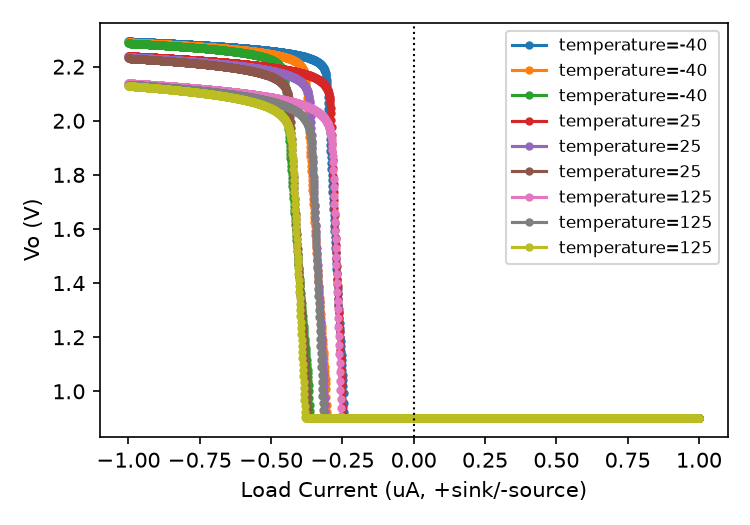
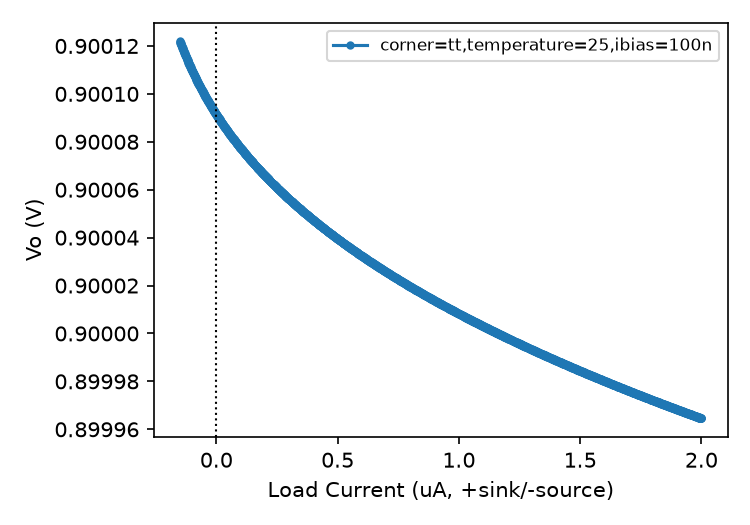
Update release docs/plots, cmos_vref params, and output_amp load_reg/openloop_ac parsers
Bundled miscellaneous updates from parallel exploration this session:
release/README.md and output_amp's own release doc/plots refreshed,
params/cmos_vref/default.json parameter adjustments, and parser tweaks to
tb_amp_load_reg.py/tb_amp_openloop_ac.py.

diff --git a/tb/output_amp/tb_amp_load_reg.py b/tb/output_amp/tb_amp_load_reg.py
@@ -7,16 +7,26 @@ class-A PMOS pull-up, M10, vs. a fixed-current NMOS pull-down, M3), so
 regulation is expected to differ between the two directions and both need
 covering, not just one.
 
-Sweep amplitude (config.json's "iload": +-1.5e-7) is capped well below M3's
+Sweep amplitude (config.json's "iload": -1.5e-7..2e-6) is deliberately
+asymmetric, matching the output stage's own asymmetry (see above): the
+source direction (negative iload, current flowing INTO vo from the load)
+is absorbed by M3's fixed pull-down mirror, so it's capped well below M3's
 mirrored sink current (ibias * m3_width/m1_width, ~250-380nA at nominal
-sizing) on purpose: push past that ceiling (as an earlier +-1e-6 sweep did)
-and M10 cuts off with nowhere left for the excess current to go except
-M10's own drain-bulk parasitic diode (drain=vo, bulk=vdd), which forward-
-biases once vo exceeds vdd+~0.5V -- vo then rails there instead of the loop
-regulating, swamping the box-method regulation_pct() with a diode-clamp
-artifact instead of a real small-signal number. Confirmed in
+sizing) -- push past that ceiling (as an earlier +-1e-6 symmetric sweep
+did) and M3 can't sink the extra current, vo rises, M10 cuts off with
+nowhere left for the excess current to go except M10's own drain-bulk
+parasitic diode (drain=vo, bulk=vdd), which forward-biases once vo exceeds
+vdd+~0.5V -- vo then rails there instead of the loop regulating, swamping
+the box-method regulation_pct() with a diode-clamp artifact instead of a
+real small-signal number. Confirmed in an earlier
 release/doc/output_amp/plots/load_reg__worst.png (ss/-40C/ibias=80n, the
-smallest mirrored sink current) before this was capped.
+smallest mirrored sink current) before this direction was capped.
+
+The sink direction (positive iload, current flowing OUT of vo to the load)
+is answered by M10 sourcing more current as a common-source class-A driver
+-- it isn't tied to a fixed mirror ceiling the way M3 is, only to M10's own
+sizing/gate drive, so it regulates over a much wider range (out to 2uA
+here) before anything similar happens on that side.
 
 Load regulation = (vo_max - vo_min) / |vo_nom|, vo_nom = midpoint of the
 values seen across the sweep -- same box-method convention as
@@ -42,14 +52,17 @@ def evaluate(runs, outputs, typical, plot_base=None):
     result = typical_min_max(runs, typical, lambda r: regulation_pct(r["values"]), match_keys=("corner", "temperature", "ibias"))
 
     if plot_base:
-        typical_runs = [r for r in runs if r["conditions"].get("corner") == typical["corner"]]
-        if typical_runs:
-            _save_plot(typical_runs, f"{plot_base}__typical.png", label_key="temperature")
+        typical_run = next(
+            (r for r in runs if all(r["conditions"].get(k) == typical.get(k) for k in ("corner", "temperature", "ibias"))),
+            None,
+        )
+        if typical_run:
+            _save_plot([typical_run], f"{plot_base}__typical.png")
 
         worst_run = max(runs, key=lambda r: max(r["values"]) - min(r["values"]))
         _save_plot([worst_run], f"{plot_base}__worst.png")
 
-        _save_plot(runs, f"{plot_base}__all.png")
+        _save_plot(runs, f"{plot_base}__all.png", label_key="corner")
 
     return [{
         "name": spec["description"],
@@ -61,13 +74,27 @@ def evaluate(runs, outputs, typical, plot_base=None):
 
 
 def _save_plot(runs, path, label_key=None):
+    """label_key: group lines by this condition, giving each distinct value
+    its own color and exactly one legend entry -- used for __all (label_key
+    ="corner") so the legend stays at 3 entries instead of one per
+    corner x temperature x ibias combination (up to 27, unreadable). Without
+    label_key (__worst, single run) every line gets its own full-condition
+    label as before."""
     fig, ax = plt.subplots(figsize=(5, 3.5))
-    for run in runs:
-        if label_key:
-            label = f"{label_key}={run['conditions'].get(label_key)}"
-        else:
+    if label_key:
+        keys = sorted({run["conditions"].get(label_key) for run in runs}, key=str)
+        colors = {k: c for k, c in zip(keys, plt.cm.tab10.colors)}
+        labeled = set()
+        for run in runs:
+            key = run["conditions"].get(label_key)
+            label = f"{label_key}={key}" if key not in labeled else None
+            labeled.add(key)
+            ax.plot([i * 1e6 for i in run["iloads"]], run["values"], marker="o", markersize=3,
+                    label=label, color=colors[key])
+    else:
+        for run in runs:
             label = _condition_label(run["conditions"])
-        ax.plot([i * 1e6 for i in run["iloads"]], run["values"], marker="o", markersize=3, label=label)
+            ax.plot([i * 1e6 for i in run["iloads"]], run["values"], marker="o", markersize=3, label=label)
     ax.axvline(0, color="black", linestyle=":", linewidth=1)
     ax.set_xlabel("Load Current (uA, +sink/-source)")
     ax.set_ylabel("Vo (V)")

diff --git a/tb/output_amp/tb_amp_openloop_ac.py b/tb/output_amp/tb_amp_openloop_ac.py
@@ -44,20 +44,30 @@ def evaluate(runs, outputs, typical, plot_base=None):
     one per corner/temperature. Reports {typical, min, max} DC gain, GBW
     and phase margin across all conditions -- GBW has no pass/fail spec (a
     low bandwidth is expected and acceptable for a DC buffer), it's
-    reported for visibility only."""
+    reported for visibility only. GBW is reported in kHz, not MHz -- this
+    buffer's bandwidth is deliberately unambitious (tens of kHz), so an MHz
+    figure was reading as an awkward 0.0X."""
     gain_spec, gbw_spec, pm_spec = outputs[0], outputs[1], outputs[2]
     for r in runs:
         c = _characterize(r["freqs"], r["vdb"], r["phase_deg"])
         r["_dc_gain_db"] = c["dc_gain_db"]
-        r["_gbw_mhz"] = c["gbw_hz"] / 1e6
+        r["_gbw_hz"] = c["gbw_hz"]
+        r["_gbw_khz"] = c["gbw_hz"] / 1e3
         r["_phase_margin_deg"] = c["phase_margin_deg"]
 
     match_keys = ("corner", "temperature", "ibias")
     gain = typical_min_max(runs, typical, lambda r: r["_dc_gain_db"], match_keys=match_keys)
-    gbw = typical_min_max(runs, typical, lambda r: r["_gbw_mhz"], match_keys=match_keys)
+    gbw = typical_min_max(runs, typical, lambda r: r["_gbw_khz"], match_keys=match_keys)
     pm = typical_min_max(runs, typical, lambda r: r["_phase_margin_deg"], match_keys=match_keys)
 
     if plot_base:
+        typical_run = next(
+            (r for r in runs if all(r["conditions"].get(k) == typical.get(k) for k in match_keys)),
+            None,
+        )
+        if typical_run:
+            _save_bode(typical_run, f"{plot_base}__typical.png")
+
         worst = min(runs, key=lambda r: r["_phase_margin_deg"])
         _save_bode(worst, f"{plot_base}__worst_case.png")
 
@@ -116,7 +126,18 @@ def _log10(x):
     return math.log10(x)
 
 
+_DEFAULT_VIEW_CAP_HZ = 10e6
+
+
 def _save_bode(run, path):
+    """View defaults to a 10MHz-wide window -- plenty past this DC buffer's
+    expected tens-of-kHz GBW, and far more readable than the full 10Hz-100MHz
+    sweep .control asks for (see the .sch's `ac dec 20 10 100Meg` -- that
+    full range is still simulated every time, only the plotted VIEW shrinks
+    here). If a particular run's own GBW lands close to or past that cap
+    (an unexpectedly fast sample), the view widens to 10x that run's GBW
+    instead of silently cropping its 0dB crossing and phase-margin region
+    off screen -- capped at the actual simulated top frequency either way."""
     fig, (ax_mag, ax_phase) = plt.subplots(2, 1, figsize=(5, 5), sharex=True)
     ax_mag.semilogx(run["freqs"], run["vdb"])
     ax_mag.axhline(0, color="black", linestyle=":", linewidth=1)
@@ -124,6 +145,10 @@ def _save_bode(run, path):
     ax_phase.semilogx(run["freqs"], run["phase_deg"])
     ax_phase.set_ylabel("Phase (deg)")
     ax_phase.set_xlabel("Frequency (Hz)")
+
+    view_max = min(run["freqs"][-1], max(_DEFAULT_VIEW_CAP_HZ, run["_gbw_hz"] * 10))
+    ax_phase.set_xlim(run["freqs"][0], view_max)
+
     fig.suptitle(_condition_label(run["conditions"]), fontsize=8)
     fig.tight_layout()
     fig.savefig(path, dpi=150)

diff --git a/README.md b/README.md
@@ -1,0 +1,56 @@
+# sg13g2_mh_ip__cmos_vref
+
+Analog IP for the IHP **SG13G2** (130nm SiGe BiCMOS) open PDK, designed and
+simulated through the [mh-analog-designer](https://gitlab.kvitschal.dev/adankvitschal/mh-analog-designer)
+tool: schematic capture in xschem, simulation via ngspice or Xyce, and a
+`config.json`-driven pipeline for generating/exploring parameter variations,
+scoring them against named design profiles, and training surrogate models.
+
+## Blocks
+
+| Block | Topologies | Profiles | What it is |
+| --- | --- | --- | --- |
+| `cmos_vref` | `default`, `lvfet` | `low_power`, `high_performance` | Self-biased CMOS voltage reference: PTAT current mirror compensating the FET V_TH's CTAT behavior. `lvfet` swaps the vptat cascode (M1/M2) for low-voltage NMOS. |
+| `output_amp` | `default` | `low_power` | Two-stage Miller-compensated op-amp (NMOS diff pair + cascode, active PMOS mirror load, CS PMOS output driver) — unity-feedback DC buffer for `cmos_vref`. |
+| `top` | `default` | `bias_matched`, `low_power` | `cmos_vref` + `output_amp` + digital trim/enable, integrated as one hierarchical block. |
+
+Each topology's tests, metrics and pass/fail-relevant design profiles are
+declared in [`config.json`](config.json). There is no absolute per-test
+spec anymore — a profile's own `constraints` (and its figure-of-merit
+formula) are what actually judge a variation.
+
+## Toolchain
+
+- **xschem** — schematic capture/netlisting.
+- **ngspice** and **Xyce** — simulation (per-test, declared in `config.json`).
+- **IHP SG13G2** open PDK (models, standard cells).
+- Everything above runs inside a docker container managed by
+  mh-analog-designer's `run_sim.py` — nothing needs installing locally
+  beyond docker and Python.
+
+## Layout
+
+| Dir | Contents |
+| --- | --- |
+| `config.json` | Blocks, topologies, tests, profiles — the single source of truth the whole pipeline reads. |
+| `sch/` | Topology schematics (`.sch`/`.sym`), one per block/topology. |
+| `tb/` | Testbenches + their Python parsers (`tb/<block>/tb_*.py`, shared helpers in `tb/_shared/`). |
+| `params/` | Declared parameter sets per block/topology. |
+| `sim/` | Simulation output — netlists, raw data, plots, `results.jsonl`/`variations.jsonl`. Gitignored, fully regenerable. |
+| `models/` | Trained surrogate models (mh-analog-designer "pro" feature). Gitignored. |
+| `release/` | Exported snapshot (materialized schematics + a results writeup) for sharing a variation outside this pipeline — see [`release/README.md`](release/README.md). |
+
+## Reproducing
+
+With mh-analog-designer installed and docker running:
+
+```
+python -m analog_designer.sim.run_sim --project-root . --block cmos_vref
+```
+
+re-simulates whichever tests are stale for the default-parameter variation.
+Or open the GUI for the full Create/Update/Generate/Train workflow:
+
+```
+python -m analog_designer.gui.app .
+```

diff --git a/release/doc/output_amp/README.md b/release/doc/output_amp/README.md
@@ -1,7 +1,7 @@
 # output_amp — default
 
 **Variation ID:** `output_amp-default-6a5d00`  
-**Exported:** 2026-08-31T14:52:56
+**Exported:** 2026-09-02T11:03:55
 
 Two-stage Miller-compensated CMOS op-amp: NMOS differential pair with cascode stack and active PMOS mirror load, common-source PMOS output driver. Used as a unity-feedback DC buffer for cmos_vref.
 
@@ -26,11 +26,11 @@ Two-stage Miller-compensated CMOS op-amp: NMOS differential pair with cascode st
 
 ## Design profile
 
-Matched profile: **low_power** (6/6 constraints) — FOM: 40.42
+Matched profile: **low_power** (6/6 constraints) — FOM: 344M
 
 | Profile | Score | FOM | Description |
 |---|---|---|---|
-| low_power | 6/6 | 40.42 | Notably lower current consumption and area than the spec requires, while keeping gain/phase margin/PSRR/load regulation within acceptable bounds |
+| low_power | 6/6 | 344M | Notably lower current consumption and area than the spec requires, while keeping gain/phase margin/PSRR/load regulation within acceptable bounds |
 
 ## Test results
 
@@ -38,10 +38,10 @@ Matched profile: **low_power** (6/6 constraints) — FOM: 40.42
 |---|---|---|---|---|---|---|---|---|---|
 | area | Estimated layout area | 1151 | 1151 | 1151 |  |  | µm² |  | PASS |
 | current_consumption | Output amp current consumption | 0.5865 | 0.4517 | 0.7293 |  |  | uA |  | PASS |
-| load_reg | Load regulation | 85.17 | 80.13 | 88.2 |  |  | % |  | PASS |
+| load_reg | Load regulation | 0.01748 | 0.01376 | 0.02704 |  |  | % |  | PASS |
 | openloop_ac | Open-loop DC gain | 42.68 | 41.16 | 43.79 |  |  | dB |  | PASS |
 | openloop_ac | Phase margin | 85.25 | 84.63 | 85.72 |  |  | deg | ≥ 45 deg | PASS |
-| openloop_ac | Unity-gain bandwidth | 0.06139 | 0.04238 | 0.08446 |  |  | MHz |  |  |
+| openloop_ac | Unity-gain bandwidth | 61.39 | 42.38 | 84.46 |  |  | kHz |  |  |
 | psrr | PSRR @ 1kHz | 78.38 | 76.53 | 79.89 |  |  | dB | ≥ 50 dB | PASS |
 
 ## Plots
@@ -61,6 +61,10 @@ Matched profile: **low_power** (6/6 constraints) — FOM: 40.42
 ### load_reg — Worst
 
 ![Worst](plots/load_reg__worst.png)
+
+### openloop_ac — Typical
+
+![Typical](plots/openloop_ac__typical.png)
 
 ### openloop_ac — Worst Case
 

diff --git a/release/README.md b/release/README.md
@@ -5,5 +5,5 @@ One chosen variation per block, exported for review. Schematics: [release/xschem
 | Block | Variation | Exported |
 |---|---|---|
 | [cmos_vref](doc/cmos_vref/README.md) | `cmos_vref-default-d813dd` | 2026-08-31T14:52:56 |
-| [output_amp](doc/output_amp/README.md) | `output_amp-default-6a5d00` | 2026-08-31T14:52:56 |
+| [output_amp](doc/output_amp/README.md) | `output_amp-default-6a5d00` | 2026-09-02T11:03:55 |
 | [top](doc/top/README.md) | `top-default-8d8c0c` | 2026-08-31T14:52:56 |
